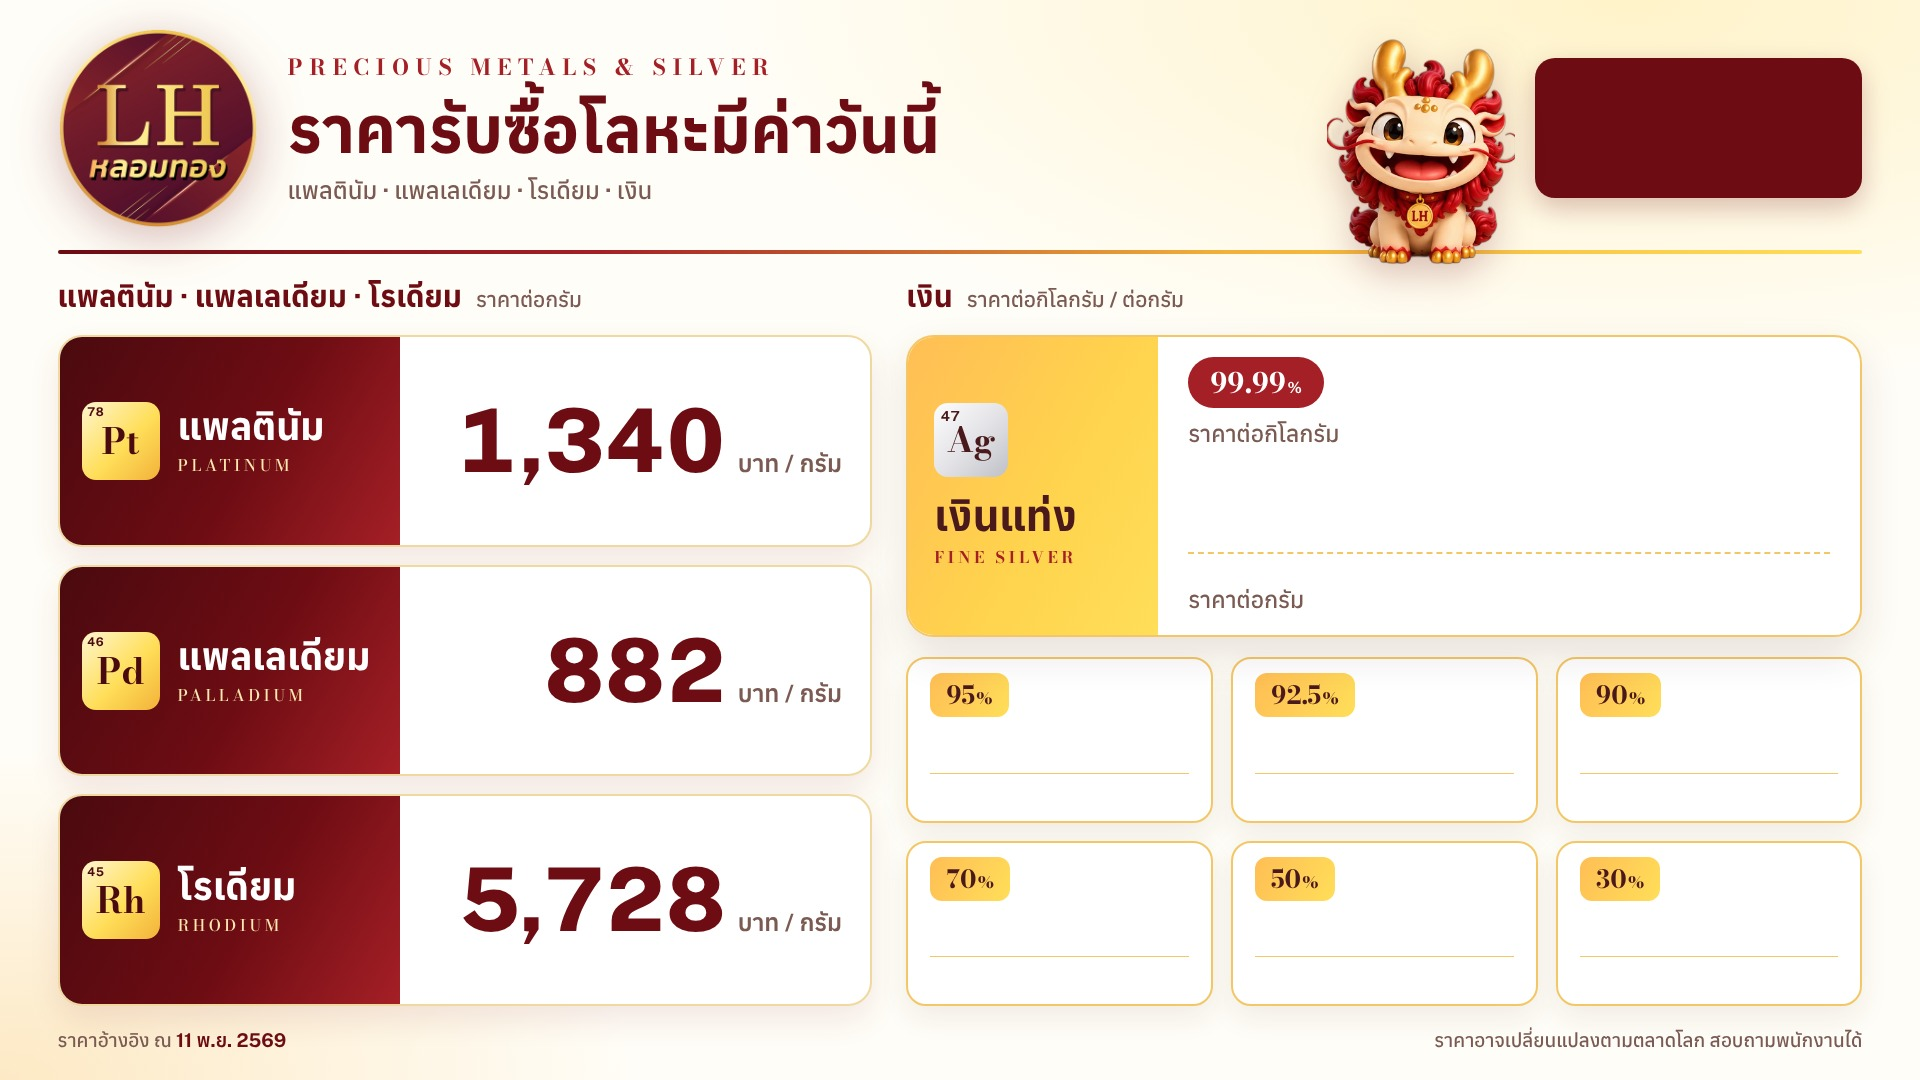
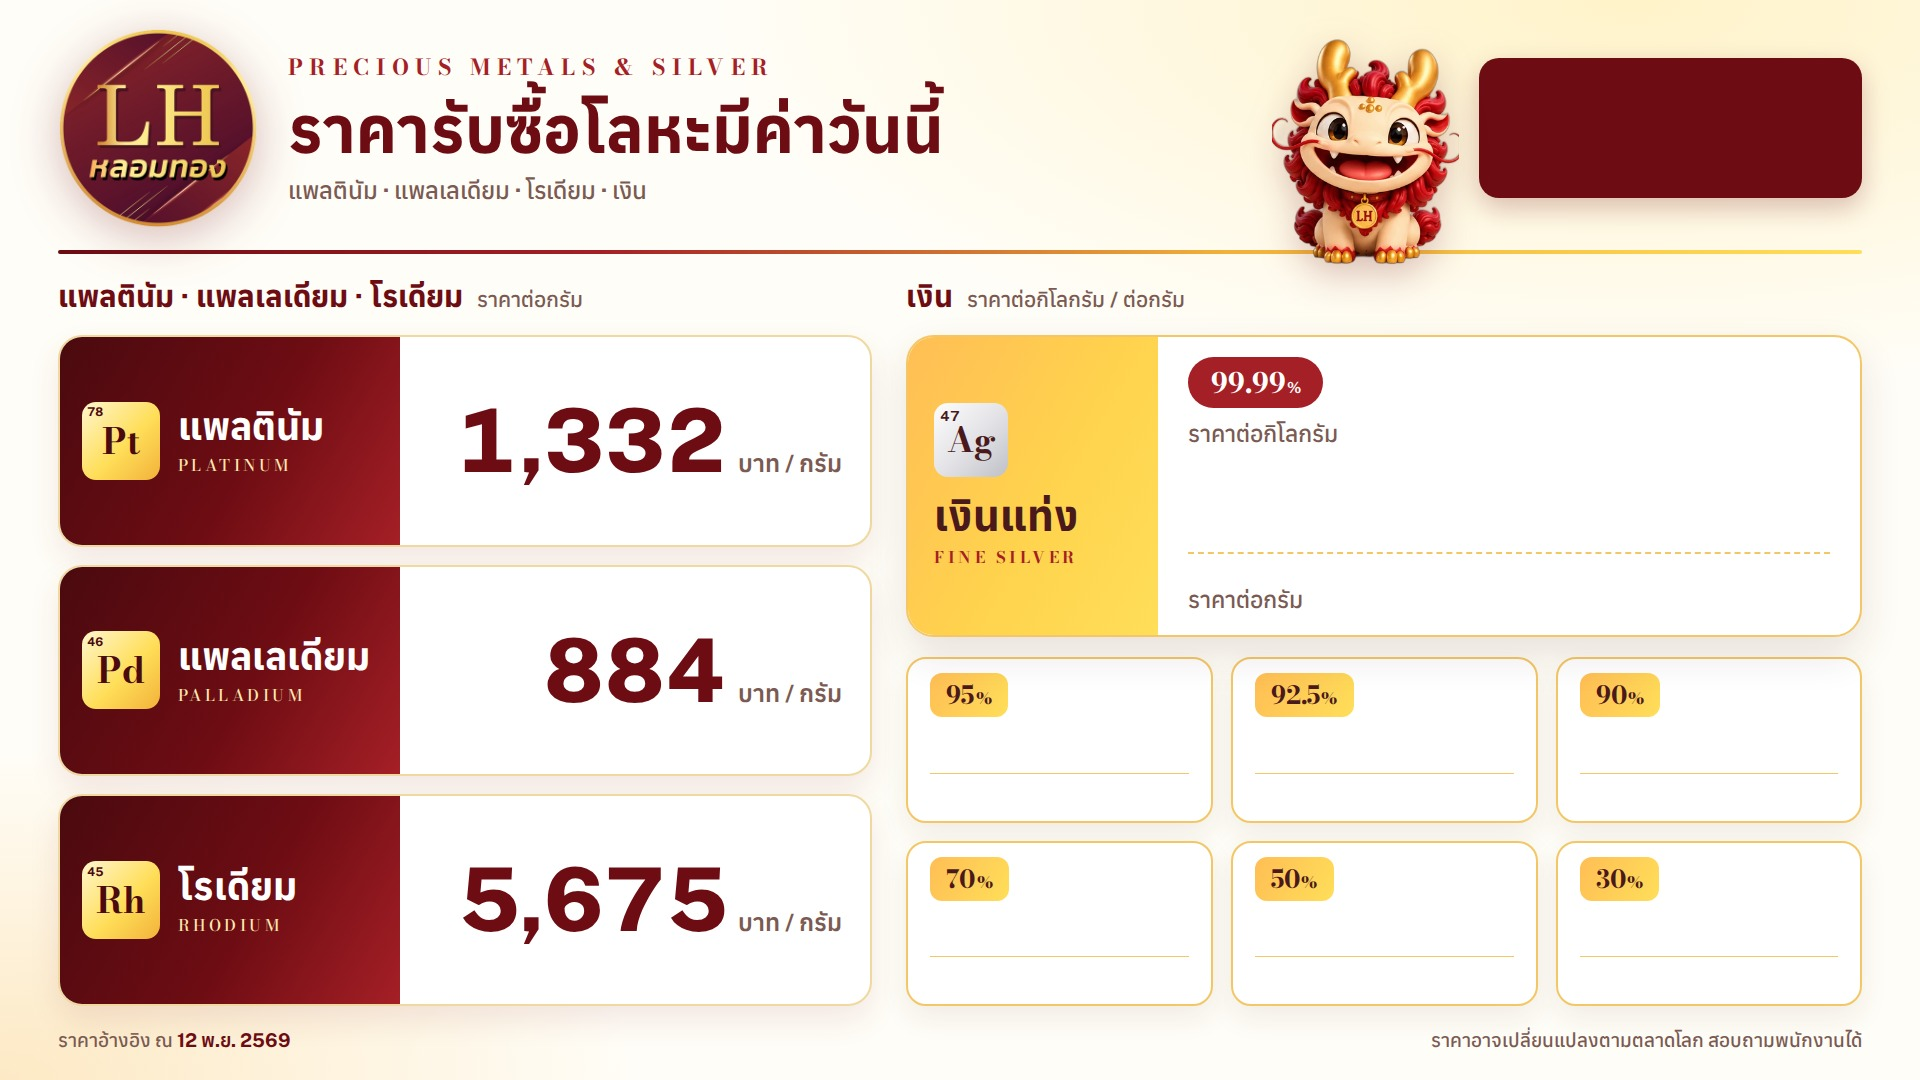
Update prices 2026-11-12

diff --git a/board.html b/board.html
@@ -302,15 +302,15 @@ html{-webkit-text-size-adjust:100%;text-size-adjust:100%}
      ราคาแต่ละเกรด = ราคาเงินหลังหัก × เปอร์เซ็นต์ (99.99% ใช้ราคาเต็ม)
    showSilver = เปิด/ปิดหน้าราคาเงิน, rotateSeconds = เปลี่ยนหน้าทุกกี่วินาที */
 const CONFIG = {
-  asOf: "11 พ.ย. 2569",
-  fx: 33.55,
+  asOf: "12 พ.ย. 2569",
+  fx: 33.72,
   discount: 0.20,
   rotateSeconds: 15,
   showSilver: true,
   metals: [
-    { th:"แพลตินัม",  en:"Platinum",  sym:"Pt", z:78, usdPerGram:49.9301 },
-    { th:"แพลเลเดียม", en:"Palladium", sym:"Pd", z:46, usdPerGram:32.858 },
-    { th:"โรเดียม",    en:"Rhodium",   sym:"Rh", z:45, usdPerGram:284.53, discount:0.40 }
+    { th:"แพลตินัม",  en:"Platinum",  sym:"Pt", z:78, usdPerGram:49.3835 },
+    { th:"แพลเลเดียม", en:"Palladium", sym:"Pd", z:46, usdPerGram:32.7616 },
+    { th:"โรเดียม",    en:"Rhodium",   sym:"Rh", z:45, usdPerGram:280.52, discount:0.40 }
   ],
   silver: { pricePerKg: 55000, grades: [95, 92.5, 90, 70, 50, 30] }
 };
